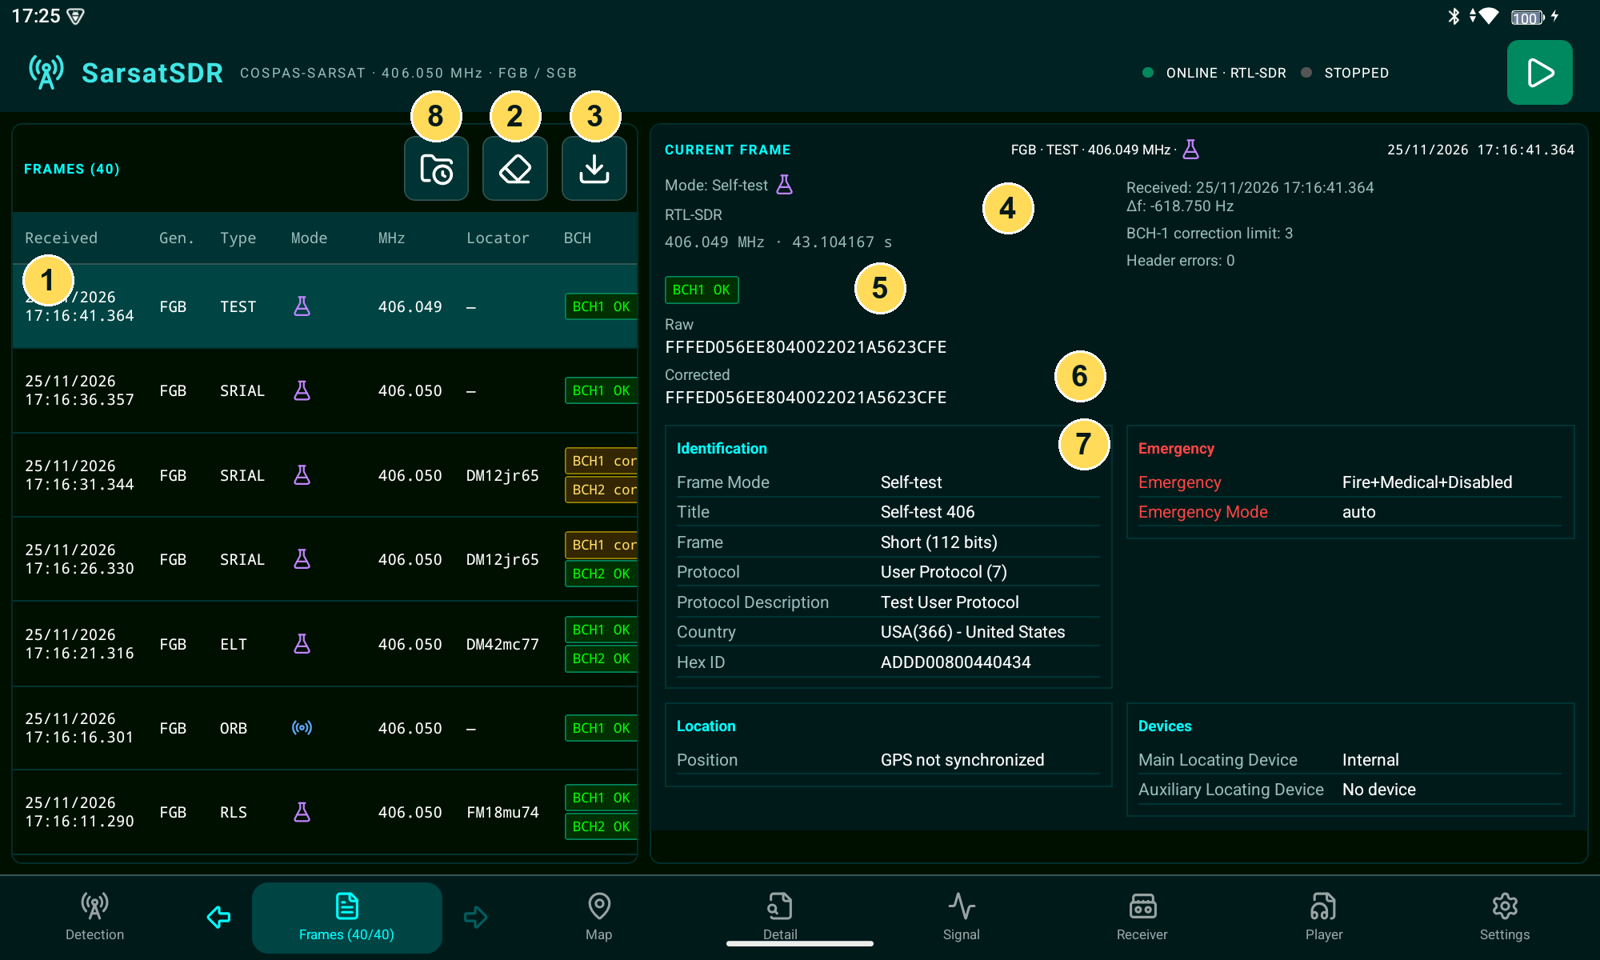
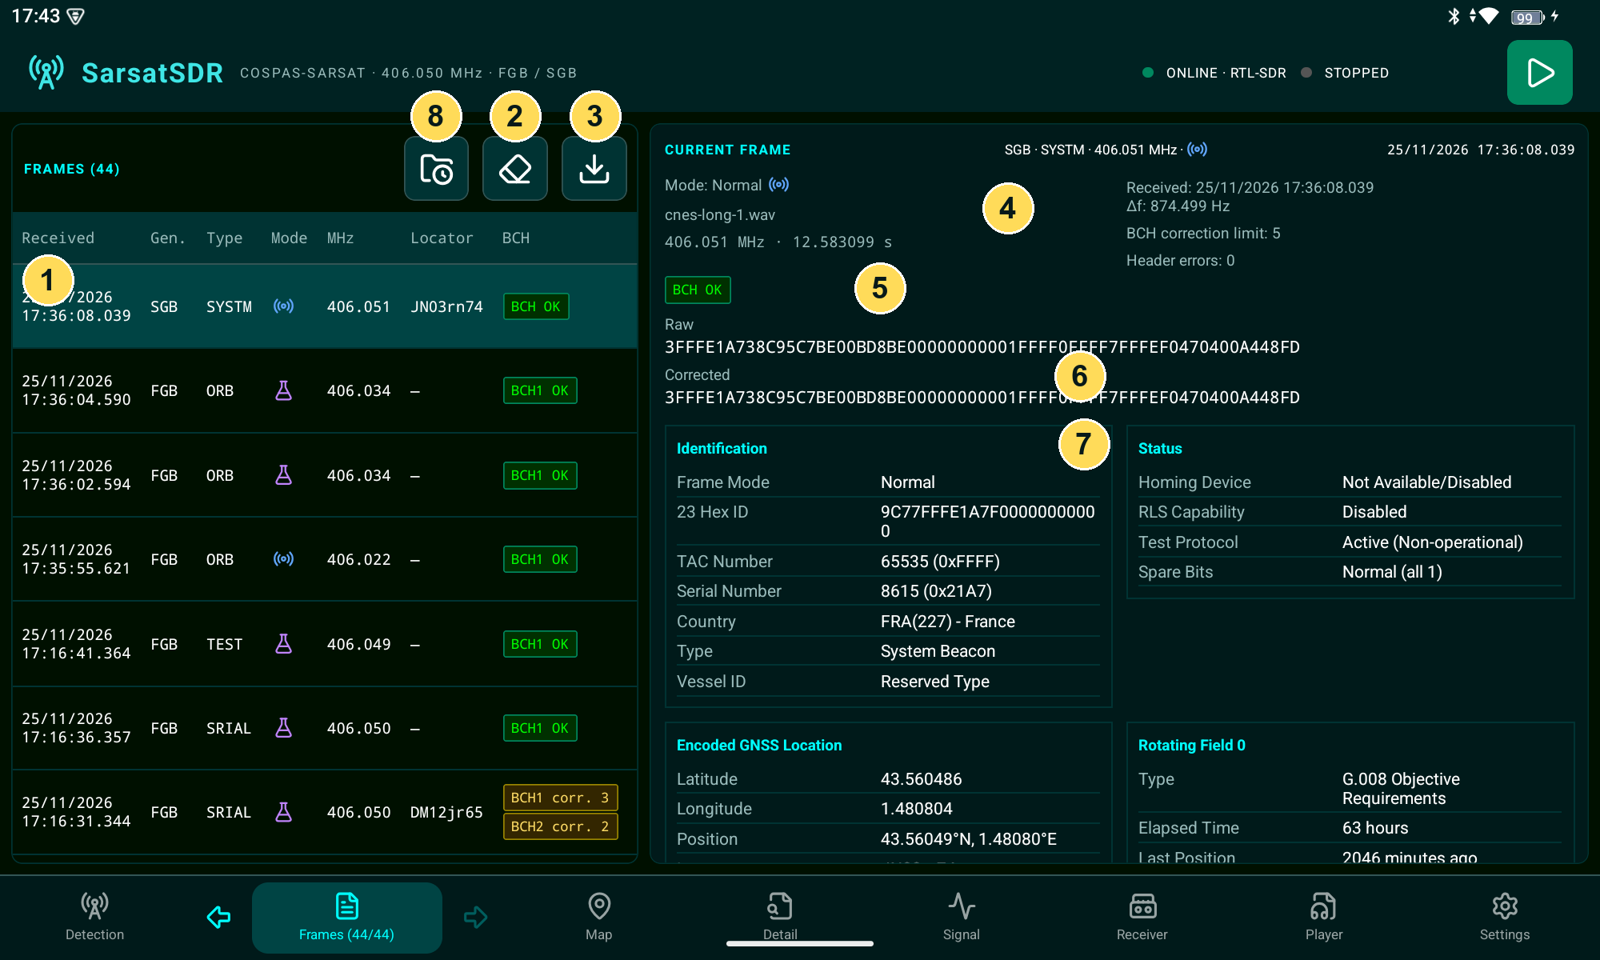
Fixed column layout.

diff --git a/apps/mobile/src/App.tsx b/apps/mobile/src/App.tsx
@@ -15,7 +15,8 @@ import { beaconLocator, beaconPosition, geoUrl, googleMapsUrl, wazeUrl } from "@
 import { Spectrum } from "./Spectrum";
 import { BeaconMap } from "./BeaconMap";
 import { createTransport } from "./transport";
-import { fitExtraFields, formatFieldFrequencies, frameDetailType, frameSummary, headerStatus, receivedTime } from "./frame-summary";
+import { fitExtraFields, formatFieldFrequencies, frameBadgeFontSize, frameDetailType, frameSummary,
+  frameTableFontSize, frameTableHeaders, frameTableLayout, headerStatus, receivedTime } from "./frame-summary";
 import type { Transport } from "./transport-types";
 import { AcquisitionSpinner, type CountdownStart } from "./AcquisitionSpinner";
 import { frameNotification, isFrameFiltered, receptionPreferencesSchema } from "./reception-preferences";
@@ -397,24 +398,25 @@ function Signal({ entry }: { entry: Entry | undefined }) {
     </View>;
 }
 const frameRowHeight = 62;
-const frameTableHeaders = ["Received", "Gen.", "Type", "Mode", "MHz", "Locator", "BCH"];
-const FrameRow = memo(function FrameRow({ entry, index, locator, widths, selected, compact, select }: {
-  entry: Entry; index: number; locator: string; widths: number[]; selected: boolean; compact: boolean; select: (id: number) => void;
+const FrameRow = memo(function FrameRow({ entry, index, locator, widths, padding, selected, compact, select }: {
+  entry: Entry; index: number; locator: string; widths: number[]; padding: number;
+  selected: boolean; compact: boolean; select: (id: number) => void;
 }) {
+  const cell = { paddingHorizontal: padding };
   return <Pressable accessibilityRole="button" accessibilityLabel={`Select frame ${index + 1}`}
     accessibilityHint={`Mode: ${modeLabel(entry.frame.mode)}`} accessibilityState={{ selected }} onPress={() => select(entry.id)}
     style={[s.tr, { height: frameRowHeight }, selected && { backgroundColor: "#004444" }]}>
-    <Text style={[s.td, s.mono, { width: widths[0] }]}>
+    <Text style={[s.td, s.mono, cell, { width: widths[0] }]}>
       {receivedTime(entry.received).replace(" ", "\n")}
     </Text>
-    <Text style={[s.td, s.mono, { width: widths[1] }]}>{entry.frame.generation === 1 ? "FGB" : "SGB"}</Text>
-    <Text numberOfLines={2} style={[s.td, s.mono, { width: widths[2] }]}>{entry.frame.beaconType}</Text>
-    <View style={[s.tableBadges, { width: widths[3] }]}>
+    <Text style={[s.td, s.mono, cell, { width: widths[1] }]}>{entry.frame.generation === 1 ? "FGB" : "SGB"}</Text>
+    <Text numberOfLines={2} style={[s.td, s.mono, cell, { width: widths[2] }]}>{entry.frame.beaconType}</Text>
+    <View style={[s.tableBadges, cell, { width: widths[3] }]}>
       <View style={s.tableModeIcon}><ModeIcon mode={entry.frame.mode} /></View>{!compact && headerBadge(entry.frame, true)}
     </View>
-    <Text style={[s.td, s.mono, { width: widths[4] }]}>{frameMhz(entry)}</Text>
-    <Text style={[s.td, s.mono, { width: widths[5] }]}>{locator}</Text>
-    <View style={[s.tableBadges, { width: widths[6] }]}>{bchBadges(entry.frame, true)}</View>
+    <Text style={[s.td, s.mono, cell, { width: widths[4] }]}>{frameMhz(entry)}</Text>
+    <Text style={[s.td, s.mono, cell, { width: widths[5] }]}>{locator}</Text>
+    <View style={[s.tableBadges, cell, { width: widths[6] }]}>{bchBadges(entry.frame, true)}</View>
   </Pressable>;
 });
 const FrameTable = memo(function FrameTable({ entries, active, select, glyphWidth, compact = false, filtered = false }: {
@@ -422,6 +424,7 @@ const FrameTable = memo(function FrameTable({ entries, active, select, glyphWidt
   glyphWidth: number | null;
 }) {
   const rows = useRef<FlatList<{ entry: Entry; locator: string; index: number }>>(null);
+  const [tableWidth, setTableWidth] = useState(0);
   const viewport = useRef({ y: 0, height: 0 });
   const revealSelection = () => {
     const index = entries.findIndex(entry => entry.id === active?.id);
@@ -441,22 +444,19 @@ const FrameTable = memo(function FrameTable({ entries, active, select, glyphWidt
     if (!compact) values[3] = headerStatus(entry.frame, true)?.text ?? "";
     return { entry, index, locator, values, bch: entry.frame.bch.map((_, n) => bchStatus(entry.frame, n, true).text) };
   }).reverse(), [entries, compact]);
-  const widths = useMemo(() => frameTableHeaders.map((header, n) => {
-    if (glyphWidth === null) return 0;
-    const values = n === frameTableHeaders.length - 1 ? tableRows.flatMap(row => row.bch) : tableRows.map(row => row.values[n]);
-    const badgePadding = n === frameTableHeaders.length - 1 || (!compact && n === 3 && entries.some(entry => entry.frame.headerErrors)) ? 12 : 0;
-    return Math.ceil(Math.max(header.length, ...values.map(value => value.length)) * glyphWidth + 18 + badgePadding);
-  }), [tableRows, glyphWidth, compact]);
+  const layout = useMemo(() => glyphWidth === null || tableWidth === 0 ? null
+    : frameTableLayout(tableRows, glyphWidth, tableWidth), [tableRows, glyphWidth, tableWidth]);
   const renderRow = useCallback(({ item }: { item: { entry: Entry; locator: string; index: number } }) =>
-    <FrameRow {...item} widths={widths} selected={active?.id === item.entry.id} compact={compact} select={select} />,
-  [widths, active?.id, compact, select]);
-  return <View style={s.fill} accessibilityLabel="Received frames">
+    layout && <FrameRow {...item} widths={layout.widths} padding={layout.padding}
+      selected={active?.id === item.entry.id} compact={compact} select={select} />,
+  [layout, active?.id, compact, select]);
+  return <View style={s.fill} accessibilityLabel="Received frames" onLayout={event => setTableWidth(event.nativeEvent.layout.width)}>
     {!entries.length ? <View style={s.emptyPane}><Text style={s.emptyStrong}>{filtered ? "All frames are filtered" : "No frames received"}</Text>
       <Text style={s.empty}>{filtered ? "Change display filters in Settings to show stored frames." : "Start the receiver or play an I/Q capture."}</Text></View> :
-      glyphWidth !== null && <ScrollView horizontal style={s.fill} contentContainerStyle={{ minWidth: "100%" }}>
-        <View style={{ minWidth: "100%", width: widths.reduce((a, b) => a + b, 0), flex: 1 }}>
+      layout && <ScrollView horizontal style={s.fill} contentContainerStyle={{ minWidth: "100%" }}>
+        <View style={{ minWidth: "100%", width: layout.widths.reduce((a, b) => a + b, 0), flex: 1 }}>
           <View style={[s.tr, s.th]}>{frameTableHeaders.map((name, n) =>
-            <Text key={name} style={[s.thText, s.mono, { width: widths[n] }]}>{name}</Text>)}</View>
+            <Text key={name} style={[s.thText, s.mono, { width: layout.widths[n], paddingHorizontal: layout.padding }]}>{name}</Text>)}</View>
           <FlatList ref={rows} data={tableRows} renderItem={renderRow} keyExtractor={item => String(item.entry.id)}
             extraData={active?.id} style={s.fill} nestedScrollEnabled accessibilityLabel="Frame rows"
             initialNumToRender={8} maxToRenderPerBatch={8} windowSize={3}
@@ -1411,16 +1411,16 @@ const s = StyleSheet.create({
   emptyStrong: { fontSize: 18, color: "#00ffff" },
   tr: { flexDirection: "row", alignItems: "center", borderBottomWidth: 1, borderBottomColor: "#003333" },
   th: { backgroundColor: "#003333", borderBottomColor: "#335555" },
-  thText: { color: "#99baba", fontSize: 11, paddingVertical: 11, paddingHorizontal: 9 },
-  td: { fontSize: 11, paddingVertical: 10, paddingHorizontal: 9, color: "#ffffff" },
-  tableMeasure: { position: "absolute", opacity: 0, fontFamily: mono, fontSize: 11 },
+  thText: { color: "#99baba", fontSize: frameTableFontSize, paddingVertical: 11, paddingHorizontal: 9 },
+  td: { fontSize: frameTableFontSize, paddingVertical: 10, paddingHorizontal: 9, color: "#ffffff" },
+  tableMeasure: { position: "absolute", opacity: 0, fontFamily: mono, fontSize: frameTableFontSize },
   tableBadges: { alignItems: "flex-start", gap: 2, paddingHorizontal: 9 },
   tableModeIcon: { paddingVertical: 10 },
   cell: { flexDirection: "row", flexWrap: "wrap", alignItems: "center", paddingHorizontal: 4 },
   link: { color: "#00ffff", textDecorationLine: "underline" },
   mono: { fontFamily: mono },
   badges: { flexDirection: "row", flexWrap: "wrap", gap: 4, marginVertical: 4 },
-  badge: { borderWidth: 1, paddingVertical: 2, paddingHorizontal: 5, borderRadius: 2, fontFamily: mono, fontSize: 10, overflow: "hidden" },
+  badge: { borderWidth: 1, paddingVertical: 2, paddingHorizontal: 5, borderRadius: 2, fontFamily: mono, fontSize: frameBadgeFontSize, overflow: "hidden" },
   valid: { color: "#00ff00", backgroundColor: "#003000", borderColor: "#00885f" },
   invalid: { color: "#ff8484", backgroundColor: "#330f0f", borderColor: "#883333" },
   corrected: { color: "#ffdd66", backgroundColor: "#332600", borderColor: "#998500" },

diff --git a/apps/diagnostic-web/tests/frame-summary.test.ts b/apps/diagnostic-web/tests/frame-summary.test.ts
@@ -2,7 +2,7 @@ import { test } from "node:test";
 import assert from "node:assert/strict";
 import type { Frame } from "@sarsat/shared/protocol";
 import { beaconLocator, geoUrl } from "@sarsat/shared/beacon-position";
-import { fitExtraFields, formatFieldFrequencies, frameDetailType, frameSummary, headerStatus, receivedTime } from "../../mobile/src/frame-summary";
+import { fitExtraFields, formatFieldFrequencies, frameDetailType, frameSummary, frameTableLayout, headerStatus, receivedTime } from "../../mobile/src/frame-summary";
 
 const frame = (generation: 1 | 2, fields: NonNullable<Frame["fields"]>): Frame => ({
   generation, mode: "normal", timeSeconds: 0, frequencyOffsetHz: 0, beaconType: generation === 1 ? "EPIRB" : "ELT",
@@ -109,13 +109,31 @@ test("Table header mismatch badges stay compact while preserving the full access
   for (const errors of [1, 3]) {
     const value = { ...frame(1, []), headerErrors: errors };
     const compact = headerStatus(value, true)!;
-    assert.equal(compact.text, `HDR ${errors}`);
-    assert.ok(compact.text.length <= 5, "Mode must not reserve space for the full mismatch sentence");
+    assert.equal(compact.text, `H${errors}`);
+    assert.ok(compact.text.length <= 2, "Mode must not reserve space for the full mismatch sentence");
     assert.equal(compact.accessibilityLabel, `HEADER ${errors} bit${errors > 1 ? "s" : ""} mismatch`);
     assert.equal(headerStatus(value)?.text, compact.accessibilityLabel);
   }
   assert.equal(headerStatus({ ...frame(1, []), headerErrors: 0 }, true), null);
   assert.equal(headerStatus({ ...frame(2, []), headerErrors: 3 }, true), null);
+});
+
+test("Tablet frame columns fit the pane with header errors and corrected BCH badges without widening Mode", () => {
+  const rows = [{
+    values: ["00:00:00.000", "SGB", "SYSTM", "H3", "406.051", "JN03rn74"],
+    bch: ["BCH1 corr. 3", "BCH2 corr. 2"],
+  }];
+  for (const [glyphWidth, paneWidth] of [[6.6, 460], [7.2, 460], [8, 510]]) {
+    const { widths, padding } = frameTableLayout(rows, glyphWidth, paneWidth);
+    assert.ok(widths.reduce((sum, width) => sum + width, 0) <= paneWidth, "No horizontal overflow on the tablet");
+    assert.equal(widths[3], widths[1], "Mode stays as narrow as its four-character heading");
+    assert.ok(widths[0] >= 11 * glyphWidth + 2 * padding, "Do not truncate reception time");
+    assert.ok(widths[6] >= 12 * glyphWidth * 10 / 11 + 12 + 2 * padding, "Keep correction counts fully visible");
+  }
+  const wide = frameTableLayout(rows, 7.2, 800);
+  assert.equal(wide.padding, 9, "Keep existing spacing when there is room");
+  const narrow = frameTableLayout(rows, 7.2, 250);
+  assert.ok(narrow.widths.reduce((sum, width) => sum + width, 0) > 250, "Keep scrolling on genuinely narrow screens rather than clipping cells");
 });
 
 test("Reception timestamps use local European dates and three millisecond digits", () => {

diff --git a/apps/mobile/src/frame-summary.ts b/apps/mobile/src/frame-summary.ts
@@ -1,6 +1,23 @@
 import { beaconLocator, beaconPosition } from "@sarsat/shared/beacon-position";
 import type { Frame } from "@sarsat/shared/protocol";
 
+export const frameTableHeaders = ["Received", "Gen.", "Type", "Mode", "MHz", "Locator", "BCH"] as const;
+export const frameTableFontSize = 11;
+export const frameBadgeFontSize = 10;
+
+export function frameTableLayout(rows: { values: string[]; bch: string[] }[], glyphWidth: number, availableWidth: number) {
+  const contentWidths = frameTableHeaders.map((header, n) => {
+    const values = n === 6 ? rows.flatMap(row => row.bch) : rows.map(row => row.values[n]);
+    const length = Math.max(0, ...values.map(value => value.length));
+    const badge = n === 3 || n === 6;
+    const valueWidth = badge && length ? length * glyphWidth * frameBadgeFontSize / frameTableFontSize + 12 : length * glyphWidth;
+    return Math.ceil(Math.max(header.length * glyphWidth, valueWidth, n === 3 ? 16 : 0));
+  });
+  const contentWidth = contentWidths.reduce((sum, width) => sum + width, 0);
+  const padding = Math.max(4, Math.min(9, Math.floor((availableWidth - contentWidth) / (2 * contentWidths.length))));
+  return { widths: contentWidths.map(width => width + 2 * padding), padding };
+}
+
 export function receivedTime(received: string) {
   const date = new Date(received);
   if (!Number.isFinite(date.getTime())) throw new RangeError(`Invalid reception timestamp: ${received}`);
@@ -10,7 +27,7 @@ export function receivedTime(received: string) {
 export function headerStatus(frame: Frame, compact = false) {
   if (frame.generation !== 1 || !frame.headerErrors) return null;
   const description = `HEADER ${frame.headerErrors} bit${frame.headerErrors > 1 ? "s" : ""} mismatch`;
-  return { text: compact ? `HDR ${frame.headerErrors}` : description, accessibilityLabel: description, tone: "corrected" } as const;
+  return { text: compact ? `H${frame.headerErrors}` : description, accessibilityLabel: description, tone: "corrected" } as const;
 }
 
 export function formatFieldFrequencies(value: string) {

diff --git a/docs/README.md b/docs/README.md
@@ -153,8 +153,9 @@ Each daily session holds up to **200 frames**. Dates throughout the app use
 timestamps use local time, with milliseconds; source-relative times are available in the details. New messages select
 automatically, and selecting a row updates Map, Detail, and Signal.
 
-The Mode column uses a compact **HDR n** badge when an FGB header has mismatched
-bits. The full header-error description remains available in the frame details.
+The Mode column uses a compact **Hn** badge when an FGB header has mismatched
+bits, where **n** is their count. Column spacing adapts to the pane width without
+shrinking the text. The full header-error description remains available in the frame details.
 
 An FGB short or orbitography frame may legitimately have no BCH-2 badge.
 A corrected frame is not automatically invalid. Conversely, a BCH failure
